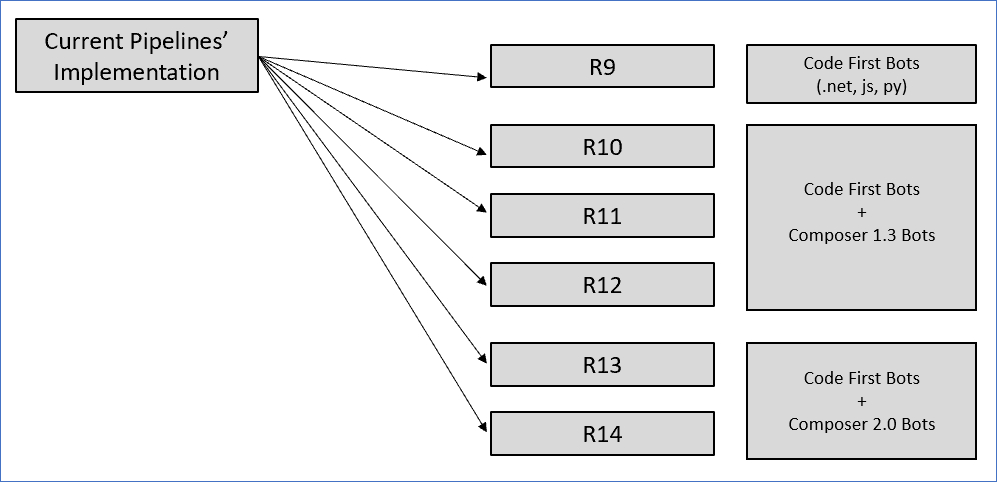
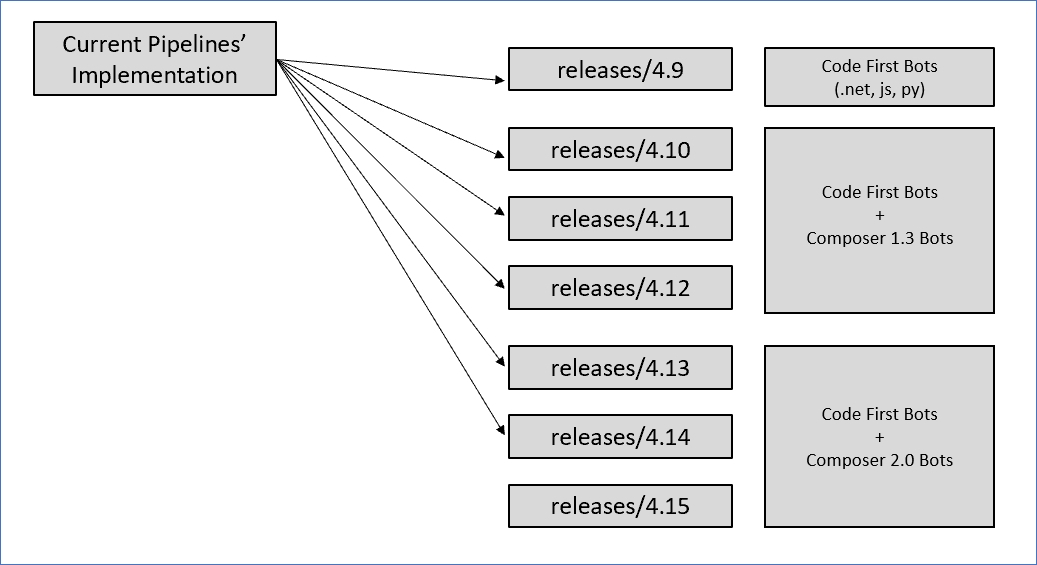
Update documentation

Changed region(s): [[0.0, 0.0311, 0.995, 0.9647], [0.0, 0.9959, 1.0, 1.0], [0.4042, 0.5602, 0.4353, 0.6224]]

diff --git a/Docs/pipelines.md b/Docs/pipelines.md
@@ -63,9 +63,9 @@ This repo contains a script to create badges of App Registrations to ease pipeli
 The following parameters will be displayed in the run pipeline blade.
 
 The version parameters can be set here or you can create variables to set the values for the next pipeline's runs.
-Supported values are: LATEST (default), STABLE, or a specific version.
+Supported values are: LATEST (default for Artifacts and MyGet), STABLE (default for NuGet, npm and PyPI), or a specific version.
 For example:
-DEPENDENCIESVERSIONDOTNETHOSTS = 4.13.1
+DEPENDENCIESVERSIONDOTNETHOSTS = 4.15.2
 
 ![dependenciesParameters](./media/dependenciesParameters.png)
 
@@ -89,16 +89,16 @@ These are the available registry options for each bot language:
   - Npm
 - Python (Not available for SkillsV3)
   - Artifacts (default)
-  - Pypi
-  - Test.Pypi
+  - PyPI
+  - Test.PyPI
 
 Supported Version inputs are:
 
 | Name                 | Description                                                                                                                 | Example |
 | -------------------- | --------------------------------------------------------------------------------------------------------------------------- | ------- |
-| **LATEST**           | (default) The latest published version available in the chosen registry, it will search for `stable` or `preview` versions. | LATEST  |
-| **STABLE**           | The latest stable published version available in the chosen registry, it only will search for `stable` versions.            | STABLE  |
-| **Specific Version** | Version format based on how it's published in the chosen registry.                                                          | 4.13.0  |
+| **LATEST**           | (default for Artifacts and MyGet) The latest published version available in the chosen registry, it will search for `stable` or `preview` versions. | LATEST  |
+| **STABLE**           | (default for NuGet, npm, and PyPI) The latest stable published version available in the chosen registry, it only will search for `stable` versions.            | STABLE  |
+| **Specific Version** | Version format based on how it's published in the chosen registry.                                                          | 4.15.2  |
 
 ## 03 - Run Test Scenarios Pipeline
 
@@ -110,10 +110,11 @@ Supported Version inputs are:
 | **AppServicePlanDotNetName**                  | User / Create Shared Resources                                                                                | Name of the App Service Plan for DotNet bots.                                                                                                                    | -                             | appservicedotnet                   |
 | **AppServicePlanJSName**                      | User / Create Shared Resources                                                                                | Name of the App Service Plan for JavaScript bots.                                                                                                                | -                             | appservicejs                       |
 | **AppServicePlanPythonName**                  | User / Create Shared Resources                                                                                | Name of the App Service Plan for Python bots.                                                                                                                    | -                             | appservicepython                   |
-| **ResourceGroup**                             | User                                                                                                          | (optional) Name of the Resource Group where the bots are deployed.                                                                                               |                               | bots-group                         |
+| **DeployResourceGroup**                       | User                                                                                                          | (optional) Name of the Resource Group where the bots are deployed.                                                                                               | **BFFN**                      | bots-group                         |
 | **ResourceSuffix**                            | Create Shared Resources                                                                                       | (optional) Suffix to add to the resources' name to avoid collitions (use lowercase, only letters and numbers).                                                   |                               | suffix                             |
+| **SharedResourceGroup**                       | Create Shared Resources                                                                                       | (optional) Name of the Shared Resource Group.                                                                                                                    | **BFFN-Shared**               | shared-resource-group |
 | **[BotName](./availableBotsList.md) + AppId** | [App Registration Portal](https://portal.azure.com/#blade/Microsoft_AAD_RegisteredApps/ApplicationsListBlade) | (optional) Skill Bot App ID to use. If not configured, it will be retrieved from the key vault.                                                                  |                               | x0x000x-000x-000x-xxx0-x00x0000xxx |
-| **DeployBotResourcesGuid**                    | Deploy Bot Resources                                                                                          | (optional) Name set for the Deploy Bot Resources pipeline.                                                                                                       | **02 - Deploy Bot Resources** | 02 - Deploy Bot Resources          |
+| **DeployBotResourcesGuid**                    | Deploy Bot Resources                                                                                          | (optional) Name set for the Deploy Bot Resources pipeline.                                                                                                       | **02.A. Deploy skill bots (daily)** | 02 - Deploy Bot Resources          |
 
 ## 04 - Cleanup Resources Pipeline
 

diff --git a/Tests/Functional/README.md b/Tests/Functional/README.md
@@ -1,4 +1,4 @@
-# Skills Functional Tests
+# Functional Tests
 
 ## Summary
 
@@ -6,9 +6,21 @@ Skill functional testing aims to automate the testing of Host and Skill interact
 
 Head to [Docs](../../Docs/) directory for more information.
 
-### Branching 
+## Available Test Cases
+### Skills
+The following scenarios are being tested with the different host-skill bots combinations:
+- Single Turn (simple echo)
+- Waterfall Bots:
+   - Cards
+   - File Upload
+   - Message with Attachments
+   - Proactive Messages
+   - Sign in
+- Authentication (MultiTenant, SingleTenant, and MSI app types)
+
+## Branching 
 In this repository, there are branches with pinned versions of the SDK to test patch releases.
-From R9 to R14, each branch contains the yamls and tests adapted to run the current implementation of the pipelines against older versions of the BotBuilder packages.
+From 4.9 to 4.15, each branch contains the yamls and tests adapted to run the current implementation of the pipelines against older versions of the BotBuilder packages.
 
 
 This image describes the bots included in the different branches.

diff --git a/Docs/availableBotsList.md b/Docs/availableBotsList.md
@@ -7,11 +7,13 @@ These are the bots currently available. This list will be expanded in the future
     - BffnSimpleComposerHostBotDotNet
     - BffnSimpleHostBotDotNet
     - BffnWaterfallHostBotDotNet
+    - BffnComposerHostBotDotNet
   - Skills
     - BffnEchoComposerSkillBotDotNet
     - BffnEchoSkillBotDotNet
     - BffnEchoSkillBotDotNetV3
     - BffnWaterfallSkillBotDotNet
+    - BffnComposerSkillBotDotNet
 
 - JS
   - Consumers
